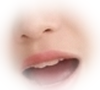
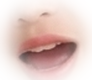
U/L/S が口元の突き出た顔になる問題を修正
前回「鼻の下〜人中の帯で位置を詰める」ようにしたが、
U(唇をすぼめる)・L(舌)・S は人中そのものが変形するため、
その帯を基準にすると合わせが流れていた（縦のずれが他より14px大きい）。
結果、口元が前に突き出た不自然な顔になっていた。

口の形が何であっても動かない領域＝額・目・眉・鼻(y92-200)だけで
合わせるようにした。口フレームの縦ずれは 0〜9px に収まり、
U/L/S は 14〜16 → 0〜1 に補正された。
パッチ範囲も (140,206,232,286) にやや縮小。

反省: 縮小した一覧で「全部自然」と判断して破綻を見落とした。
確認は原寸で行う。

diff --git a/index.html b/index.html
@@ -388,7 +388,7 @@
 </div>
 <div class="toast" id="toast"></div>
 
-<script src="avatar.js?v=11"></script>
+<script src="avatar.js?v=12"></script>
 <script src="patterns.js?v=9"></script>
 <script src="figures.js?v=9"></script>
 <script src="app.js?v=10"></script>

diff --git a/README.md b/README.md
@@ -168,10 +168,14 @@ NAS配信でマイクまで使うには、ルーターでの 80/443 転送＋Syn
 - **目・口とも生成パッチで動く**（`face/`、17枚）。目は開→半分→ほぼ→完全の4段階、
   口は AA/E/I/O/U/FV/MBP/L/S の9形（うち6形は半開きの中割りつき）。
   形そのものは写真なので混ぜられないが、**開き具合は補間する**ので半開きのコマを通って開閉する。
-- **パッチの切り方が効く。** 位置合わせは「パッチのすぐ周り」だけで測る。
-  口なら鼻の下〜人中（口が開いても動かない）。顎まで比較に入れると、
-  口が開いて顎が下がったぶんに引っ張られて**口全体が下にずれる**（実際にずれた）。
-  切り抜きも矩形ではなく**楕円**。矩形だと顎や頬の角を持ち込んで暗い四角が出る（実際に出た）。
+- **位置合わせは「口の形が変わっても動かない領域」だけで測る。** いま使っているのは
+  額・目・眉・鼻（y 92〜200）。ここに至るまでに2回失敗している:
+  1. 顎まで比較に入れた → 口が開いて顎が下がったぶんに引っ張られ**口全体が下にずれた**
+  2. その反省で「鼻の下〜人中」の細い帯だけで詰めた → **U(唇をすぼめる)/L(舌)/S は
+     人中そのものが変形する**ため合わせが流れ、口元が前に突き出た顔になった
+     （縦のずれが他より14px大きくなっていた）
+- 切り抜きは矩形ではなく**楕円**。矩形だと顎や頬の角を持ち込んで暗い四角が出る（実際に出た）。
+- **確認は必ず原寸で。** 縮小した一覧では上の破綻を見落とした。
 - **首の動き**: 比が無理数に近いサイン波を3本重ねて周期を感じさせないようにし、
   回転軸を**首の付け根**に置く（頭の中心で回すと首から上だけ振れて不自然）。
   回転で四隅が欠けないよう1.02倍で描く。
